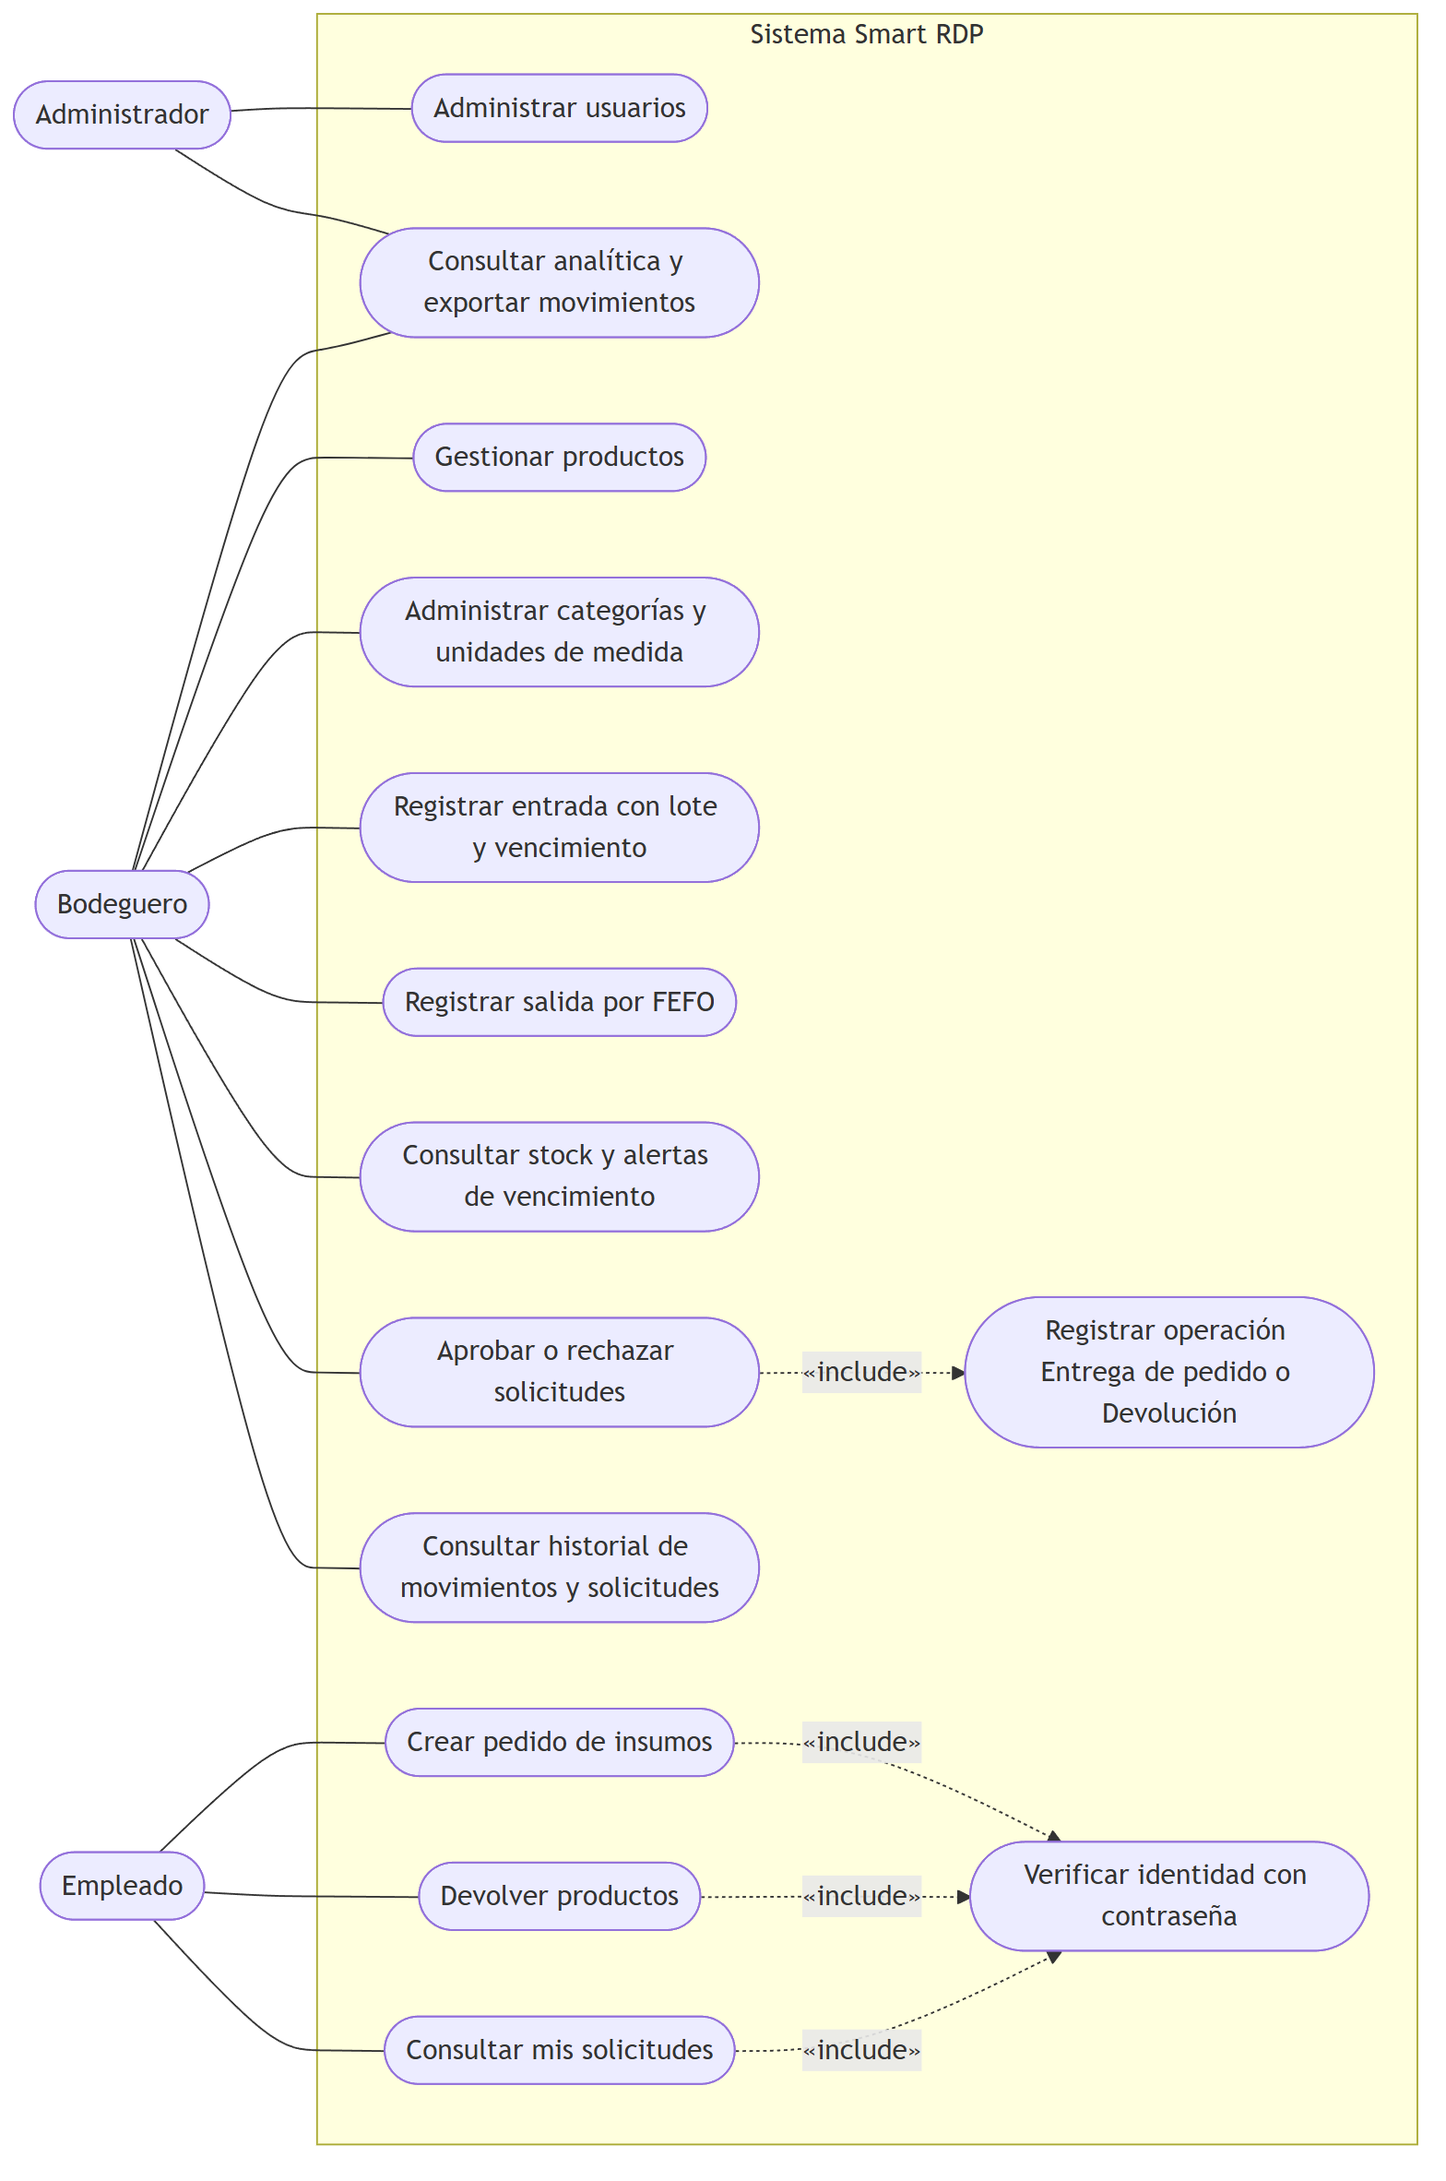
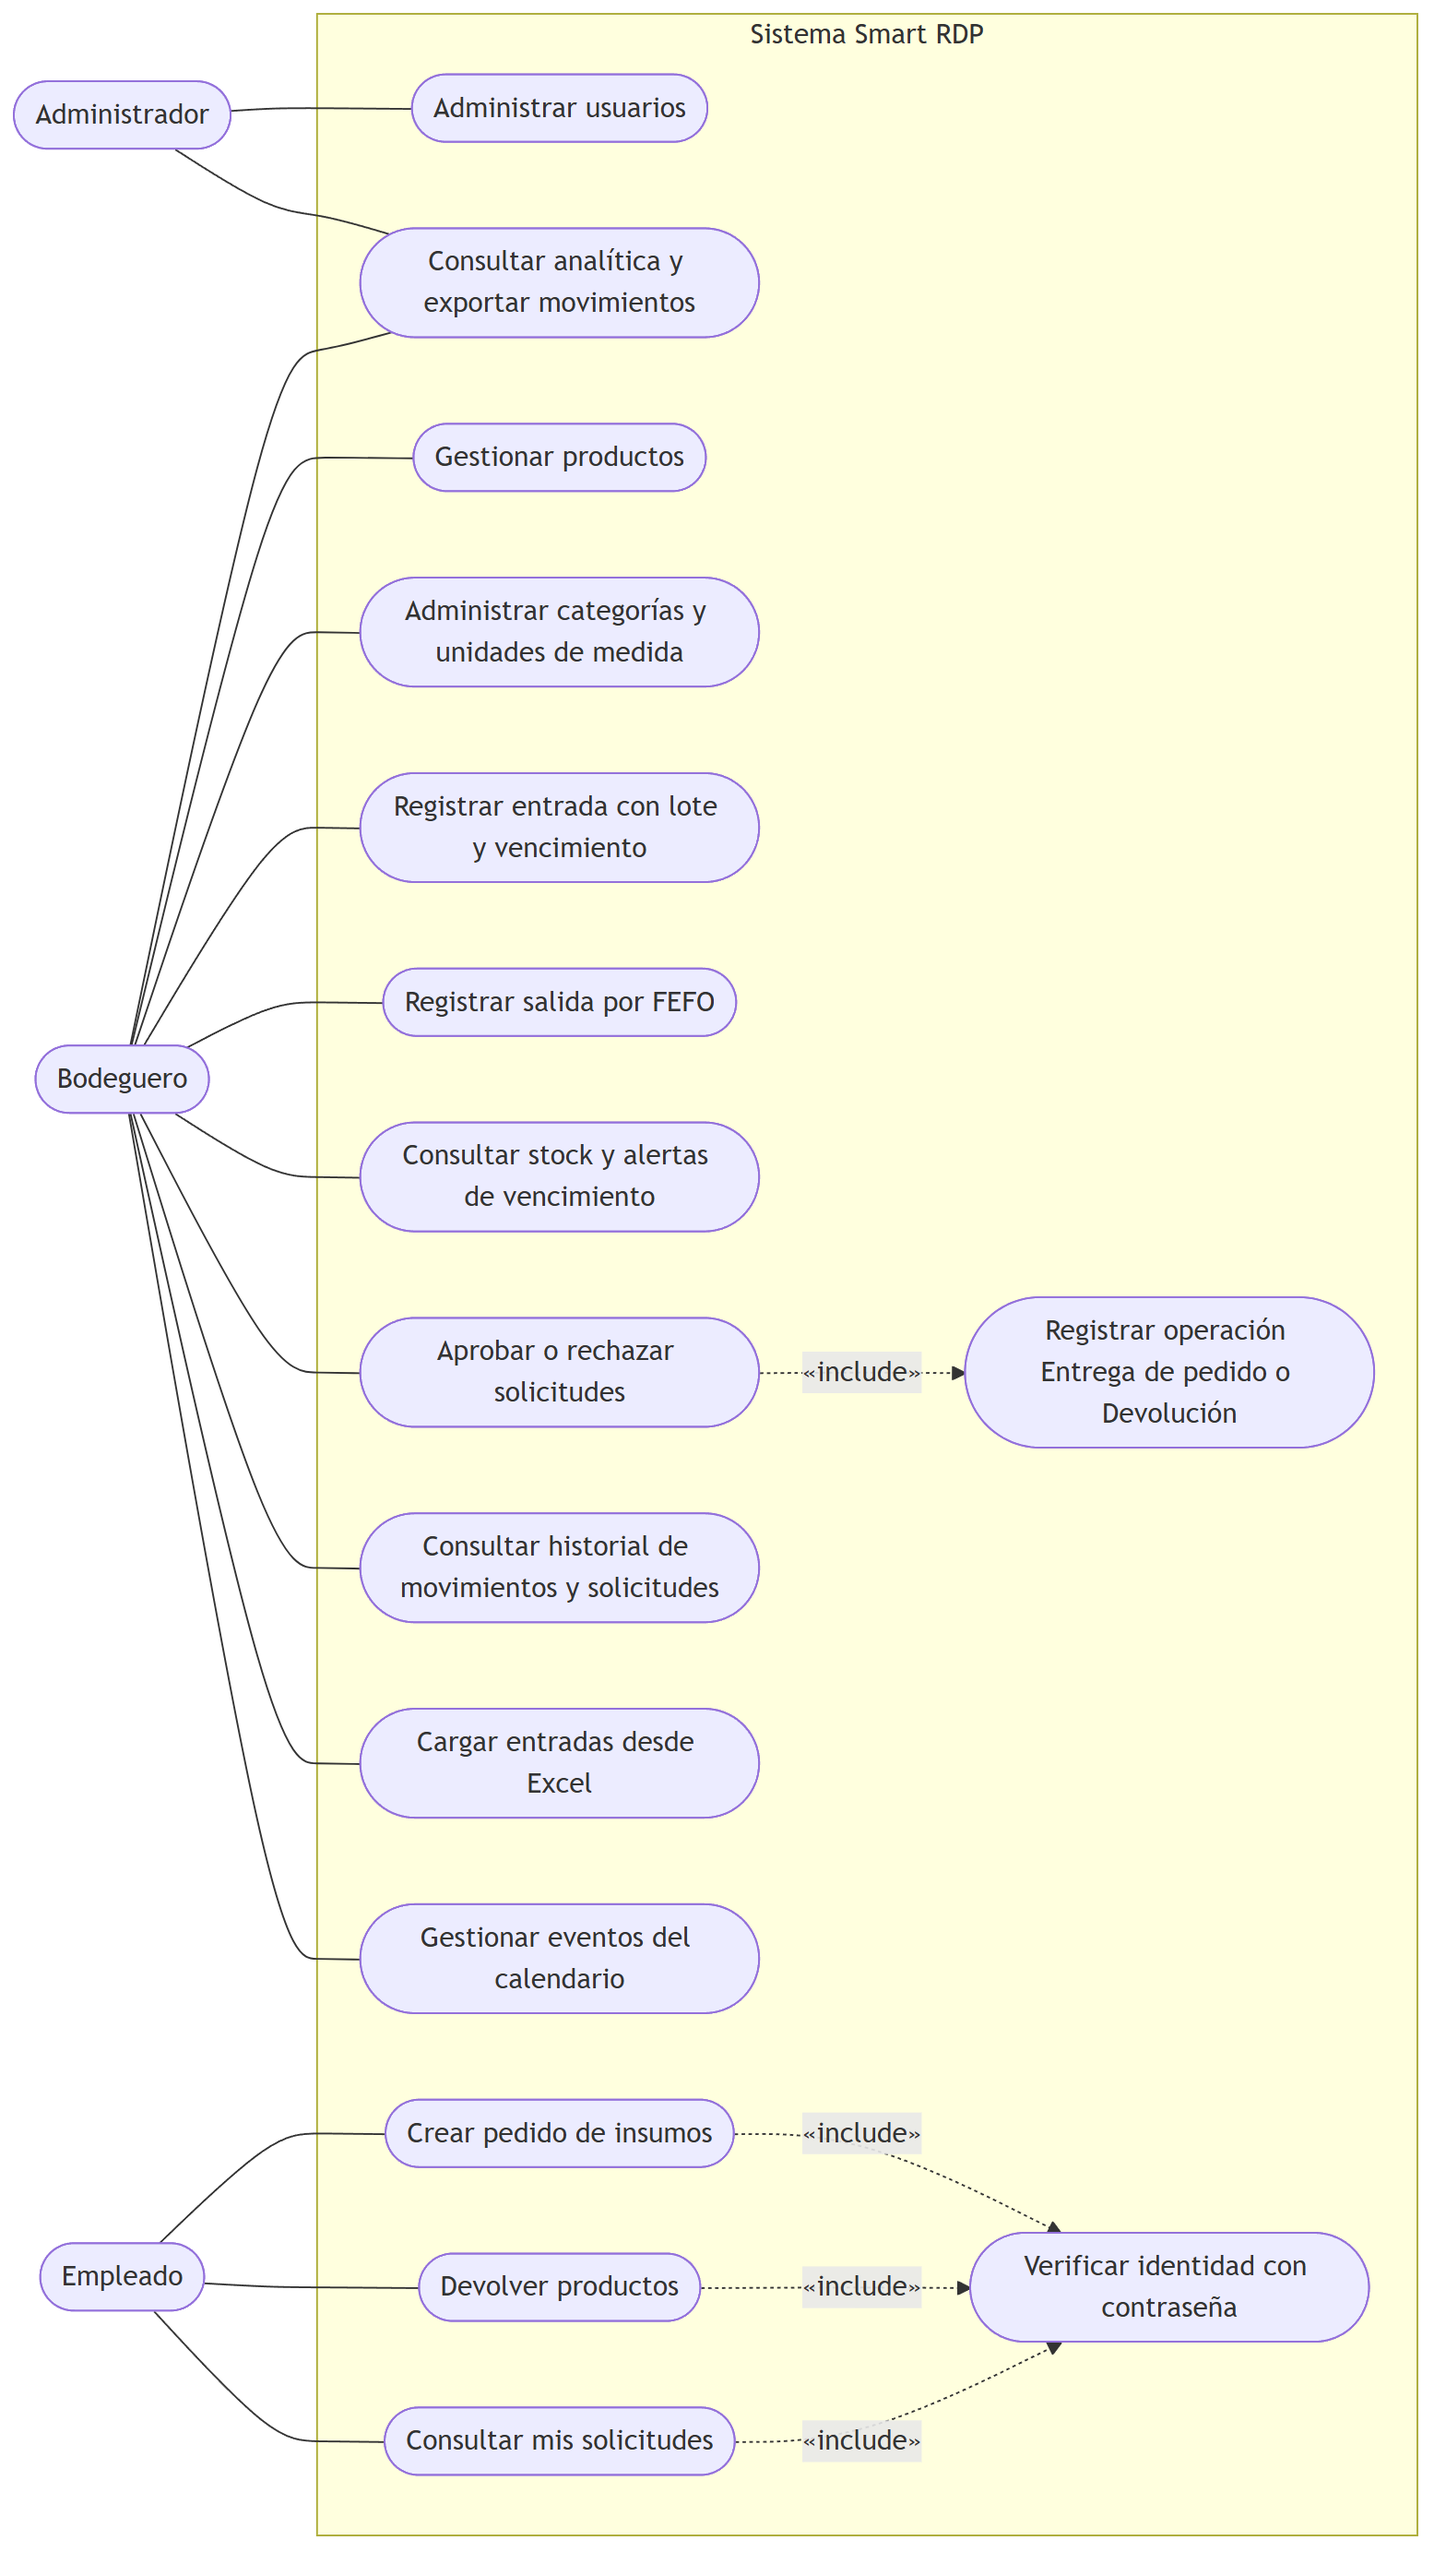
Documenta los eventos y las entradas por Excel y regenera los diagramas

diff --git a/FASE-2/EVIDENCIAS-DE-PROYECTO/08-Diagramas-UML.md b/FASE-2/EVIDENCIAS-DE-PROYECTO/08-Diagramas-UML.md
@@ -19,7 +19,7 @@ Los diagramas están escritos en [Mermaid](https://mermaid.js.org), que GitHub d
 
 ## 2. Diagrama de casos de uso
 
-El **Administrador** ve Analítica y administra usuarios. El **Bodeguero** administra todo lo demás pero no a los usuarios y es el único que aprueba solicitudes. El **Empleado** no inicia sesión: usa la vista pública y se identifica con su nombre y su contraseña en cada acción.
+El **Administrador** ve Analítica y administra usuarios. El **Bodeguero** administra todo lo demás pero no a los usuarios, es el único que aprueba solicitudes, puede cargar entradas de stock desde una planilla Excel y lleva el calendario de eventos de la bodega. El **Empleado** no inicia sesión: usa la vista pública y se identifica con su nombre y su contraseña en cada acción.
 
 ```mermaid
 flowchart LR
@@ -42,6 +42,8 @@ flowchart LR
         uc12(["Consultar mis solicitudes"])
         uc13(["Registrar operación Entrega de pedido o Devolución"])
         uc14(["Verificar identidad con contraseña"])
+        uc15(["Cargar entradas desde Excel"])
+        uc16(["Gestionar eventos del calendario"])
     end
 
     adm --- uc1
@@ -55,6 +57,8 @@ flowchart LR
     bod --- uc7
     bod --- uc8
     bod --- uc9
+    bod --- uc15
+    bod --- uc16
 
     emp --- uc10
     emp --- uc11
@@ -68,7 +72,7 @@ flowchart LR
 
 ## 3. Diagrama de clases del dominio
 
-Todas las entidades de negocio heredan de `BaseEntity` (`id`, `createdAt`, `updatedAt`). Solo `Solicitud` y `Usuario` tienen historial con Hibernate Envers; `Operacion`, `Movimiento` y `Lote` son inmutables (`@Immutable`, y triggers en la base). El stock no es un atributo: se calcula con vistas.
+Todas las entidades de negocio heredan de `BaseEntity` (`id`, `createdAt`, `updatedAt`). `Evento` es una agenda compartida de los bodegueros, sin historial ni triggers. Solo `Solicitud` y `Usuario` tienen historial con Hibernate Envers; `Operacion`, `Movimiento` y `Lote` son inmutables (`@Immutable`, y triggers en la base). El stock no es un atributo: se calcula con vistas.
 
 ```mermaid
 classDiagram
@@ -139,6 +143,12 @@ classDiagram
     class DetalleSolicitud {
         -int cantidadSolicitada
     }
+    class Evento {
+        -String titulo
+        -LocalDate fecha
+        -LocalTime hora
+        -String descripcion
+    }
 
 
     Rol "1" <-- "*" Usuario : tiene
@@ -157,6 +167,7 @@ classDiagram
     Solicitud "0..1" <-- "*" Solicitud : devolución de
     Solicitud "1" *-- "1..*" DetalleSolicitud : contiene
     Producto "1" <-- "*" DetalleSolicitud : se pide en
+    Usuario "1" <-- "*" Evento : crea
 ```
 
 ## 4. Diagrama de secuencia: aprobar un pedido
@@ -201,7 +212,7 @@ sequenceDiagram
 
 ## 5. Diagrama de secuencia: pedido del empleado
 
-El empleado no inicia sesión. Elige su nombre en una lista, escribe su contraseña y envía el pedido. El sistema verifica su identidad en cada acción y limita los intentos fallidos: tras cinco intentos incorrectos el empleado queda bloqueado cinco minutos.
+El empleado no inicia sesión. Elige su nombre en una lista, ve solo los productos con stock y cuánto hay disponible de cada uno, escribe su contraseña y envía el pedido. El sistema verifica su identidad en cada acción y limita los intentos fallidos: tras cinco intentos incorrectos el empleado queda bloqueado cinco minutos. Antes de guardar el pedido comprueba que cada cantidad no supere el stock disponible; el stock no se reserva.
 
 ```mermaid
 sequenceDiagram
@@ -215,7 +226,7 @@ sequenceDiagram
 
     E->>UI: Abre la vista pública del empleado
     UI->>P: GET /api/publico/empleados y /api/publico/productos
-    P-->>UI: Nombres de empleados activos y productos
+    P-->>UI: Nombres de empleados activos y productos con stock (con su disponible)
     E->>UI: Elige su nombre, agrega productos y escribe su contraseña
     UI->>P: POST /api/publico/solicitudes (empleadoId, password, items)
     P->>V: verificar(empleadoId, password)
@@ -229,16 +240,23 @@ sequenceDiagram
         V-->>P: Empleado verificado y contador de fallos en cero
         P->>P: Fija el correo del empleado como autor de la auditoría
         P->>S: crearPedido(empleadoId, items)
-        S->>DB: Guarda la Solicitud PENDIENTE y sus detalles
-        S-->>P: SolicitudResponse
-        P-->>UI: 201 Created
-        UI-->>E: Confirma que el pedido quedó pendiente
+        S->>DB: Lee el stock disponible de cada producto (vista stock_producto)
+        alt Algún producto sin stock o con cantidad mayor que el disponible
+            S-->>P: BusinessException "Solo hay N de producto"
+            P-->>UI: 422 con el mensaje
+            UI-->>E: Muestra el error
+        else Hay stock para todos los productos
+            S->>DB: Guarda la Solicitud PENDIENTE y sus detalles
+            S-->>P: SolicitudResponse
+            P-->>UI: 201 Created
+            UI-->>E: Confirma que el pedido quedó pendiente
+        end
     end
 ```
 
 ## 6. Diagrama de arquitectura y despliegue
 
-La arquitectura es **cliente-servidor**: una aplicación de una sola página (SPA) en Angular consume una API REST de Spring Boot, que persiste en PostgreSQL. El backend es un **monolito modular en capas** (controlador, servicio, repositorio) con un paquete por dominio: `producto`, `movimiento`, `solicitud`, `usuario`, `catalogo`, `analitica`, `auditoria`, `publico`. La seguridad es sin estado: el cliente envía un token JWT en cada petición y un filtro valida el rol antes de llegar al controlador.
+La arquitectura es **cliente-servidor**: una aplicación de una sola página (SPA) en Angular consume una API REST de Spring Boot, que persiste en PostgreSQL. El backend es un **monolito modular en capas** (controlador, servicio, repositorio) con un paquete por dominio: `producto`, `movimiento`, `solicitud`, `usuario`, `catalogo`, `analitica`, `auditoria`, `evento`, `publico`. La seguridad es sin estado: el cliente envía un token JWT en cada petición y un filtro valida el rol antes de llegar al controlador.
 
 ```mermaid
 flowchart LR
@@ -248,7 +266,7 @@ flowchart LR
 
     subgraph SRV["Servidor local o red LAN: Spring Boot 4, Java 21"]
         SEC["Seguridad<br/>JwtAuthenticationFilter y SecurityConfig<br/>(roles Administrador, Bodeguero, Empleado)"]
-        CTL["Capa web: controladores REST<br/>/api/auth, /api/productos, /api/movimientos,<br/>/api/solicitudes, /api/analitica,<br/>/api/usuarios, /api/publico"]
+        CTL["Capa web: controladores REST<br/>/api/auth, /api/productos, /api/movimientos,<br/>/api/solicitudes, /api/analitica,<br/>/api/usuarios, /api/publico,<br/>/api/eventos"]
         SVC["Capa de servicios<br/>reglas de negocio, FEFO y transacciones"]
         REP["Capa de persistencia<br/>Spring Data JPA, Hibernate y Envers"]
         SEC --> CTL --> SVC --> REP

diff --git a/FASE-2/EVIDENCIAS-DE-PROYECTO/07-Modelo-de-Datos.md b/FASE-2/EVIDENCIAS-DE-PROYECTO/07-Modelo-de-Datos.md
@@ -7,9 +7,9 @@
 
 Este documento describe el modelo de datos relacional de Smart RDP: el diagrama entidad-relación, el diccionario de datos de cada tabla y las reglas de integridad.
 
-**Fuente.** El esquema se define en `backend/src/main/resources/db/migration/` (migraciones de Flyway: `V1__esquema.sql` y `V2__blindaje_libro_y_catalogos.sql`) y se contrastó con la base de desarrollo (PostgreSQL 18, base `smartrdp`) y con las entidades JPA del backend (`backend/src/main/java/com/smartrdp/backend`). Hibernate solo **valida** que las entidades coincidan con ese esquema (`spring.jpa.hibernate.ddl-auto=validate`); no crea ni modifica tablas. Las reglas de integridad que cruzan tablas las garantizan triggers de PostgreSQL definidos en la misma migración.
+**Fuente.** El esquema se define en `backend/src/main/resources/db/migration/` (migraciones de Flyway: `V1__esquema.sql`, `V2__blindaje_libro_y_catalogos.sql` y `V3__eventos.sql`) y se contrastó con la base de desarrollo (PostgreSQL 18, base `smartrdp`) y con las entidades JPA del backend (`backend/src/main/java/com/smartrdp/backend`). Hibernate solo **valida** que las entidades coincidan con ese esquema (`spring.jpa.hibernate.ddl-auto=validate`); no crea ni modifica tablas. Las reglas de integridad que cruzan tablas las garantizan triggers de PostgreSQL definidos en la misma migración. La tabla `eventos` (V3) es una agenda y no lleva triggers ni auditoría.
 
-**Cómo leer el diagrama.** La notación es de pata de gallo (crow's foot): `||` exactamente uno, `|o` cero o uno, `o{` cero o muchos, `|{` uno o muchos. Para no recargar el diagrama se omiten las columnas comunes `created_at` y `updated_at` (ver sección 3). El stock no es una columna de ninguna tabla: se calcula con vistas a partir del libro de operaciones y movimientos (ver 3.14).
+**Cómo leer el diagrama.** La notación es de pata de gallo (crow's foot): `||` exactamente uno, `|o` cero o uno, `o{` cero o muchos, `|{` uno o muchos. Para no recargar el diagrama se omiten las columnas comunes `created_at` y `updated_at` (ver sección 3). El stock no es una columna de ninguna tabla: se calcula con vistas a partir del libro de operaciones y movimientos (ver 3.15).
 
 ## 2. Diagrama entidad-relación
 
@@ -23,6 +23,7 @@ erDiagram
     USUARIOS ||--o{ SOLICITUDES : solicita
     USUARIOS |o--o{ SOLICITUDES : resuelve
     USUARIOS ||--o{ OPERACIONES : registra
+    USUARIOS ||--o{ EVENTOS : crea
 
     ESTADOS_SOLICITUD ||--o{ SOLICITUDES : "estado de"
     SOLICITUDES |o--o{ SOLICITUDES : "es devolucion de"
@@ -113,6 +114,14 @@ erDiagram
         int stock_minimo
         int stock_critico
         boolean activo
+    }
+    EVENTOS {
+        bigint id PK
+        bigint creado_por FK
+        varchar titulo
+        date fecha
+        time hora "nulo = todo el dia"
+        varchar descripcion "opcional"
     }
     CATEGORIAS {
         bigint id PK
@@ -283,7 +292,19 @@ Todas las tablas de negocio (no las de auditoría) heredan de `BaseEntity` estas
 | `lote_id` | bigint | No | Lote afectado. Clave foránea a `lotes.id`. |
 | `cantidad` | integer | No | Cantidad siempre positiva; suma o resta según el sentido del tipo de la operación. |
 
-### 3.14 Vistas de inventario
+### 3.14 `eventos`
+
+Agenda compartida del calendario de los bodegueros (migración `V3`). Es una agenda, no un registro histórico: no tiene Envers ni triggers, y cualquier bodeguero puede ver, crear, editar y borrar cualquier evento (el acceso se restringe por rol en la API, no por fila). Tiene un índice por `fecha` (`ix_eventos_fecha`) para filtrar por día.
+
+| Columna | Tipo | ¿Nulo? | Descripción |
+|---|---|---|---|
+| `titulo` | character varying(120) | No | Título del evento; no puede quedar vacío ni solo con espacios (`ck_eventos_titulo`). |
+| `fecha` | date | No | Día del evento. |
+| `hora` | time | Sí | Hora del evento; nula significa que dura todo el día. |
+| `descripcion` | character varying(500) | Sí | Detalle opcional. |
+| `creado_por` | bigint | No | Bodeguero que agendó el evento. Clave foránea a `usuarios.id`; solo lo identifica, no limita quién puede editarlo. |
+
+### 3.15 Vistas de inventario
 
 El stock **no se guarda**: se calcula con estas vistas, que son la única fuente de verdad.
 
@@ -292,7 +313,7 @@ El stock **no se guarda**: se calcula con estas vistas, que son la única fuente
 - **`solicitado_vs_entregado`** — Por solicitud y producto: lo solicitado, lo entregado y si es un agregado (entregado sin haber sido pedido). Columnas: `solicitud_id`, `producto_id`, `cantidad_solicitada`, `cantidad_entregada`, `agregado`.
 - **`devolvible_lote`** — Por pedido y lote: cuánto se entregó, cuánto se devolvió y cuánto aún se puede devolver. Columnas: `pedido_id`, `lote_id`, `producto_id`, `movimiento_id`, `entregado`, `devuelto`, `devolvible`.
 
-### 3.15 Tablas de auditoría (Envers)
+### 3.16 Tablas de auditoría (Envers)
 
 `revinfo` guarda una fila por revisión (marca de tiempo y correo de quien la hizo); `solicitudes_aud` y `usuarios_aud` copian las columnas auditadas de la tabla de negocio más `rev` y `revtype` (0 alta, 1 modificación, 2 baja).
 
